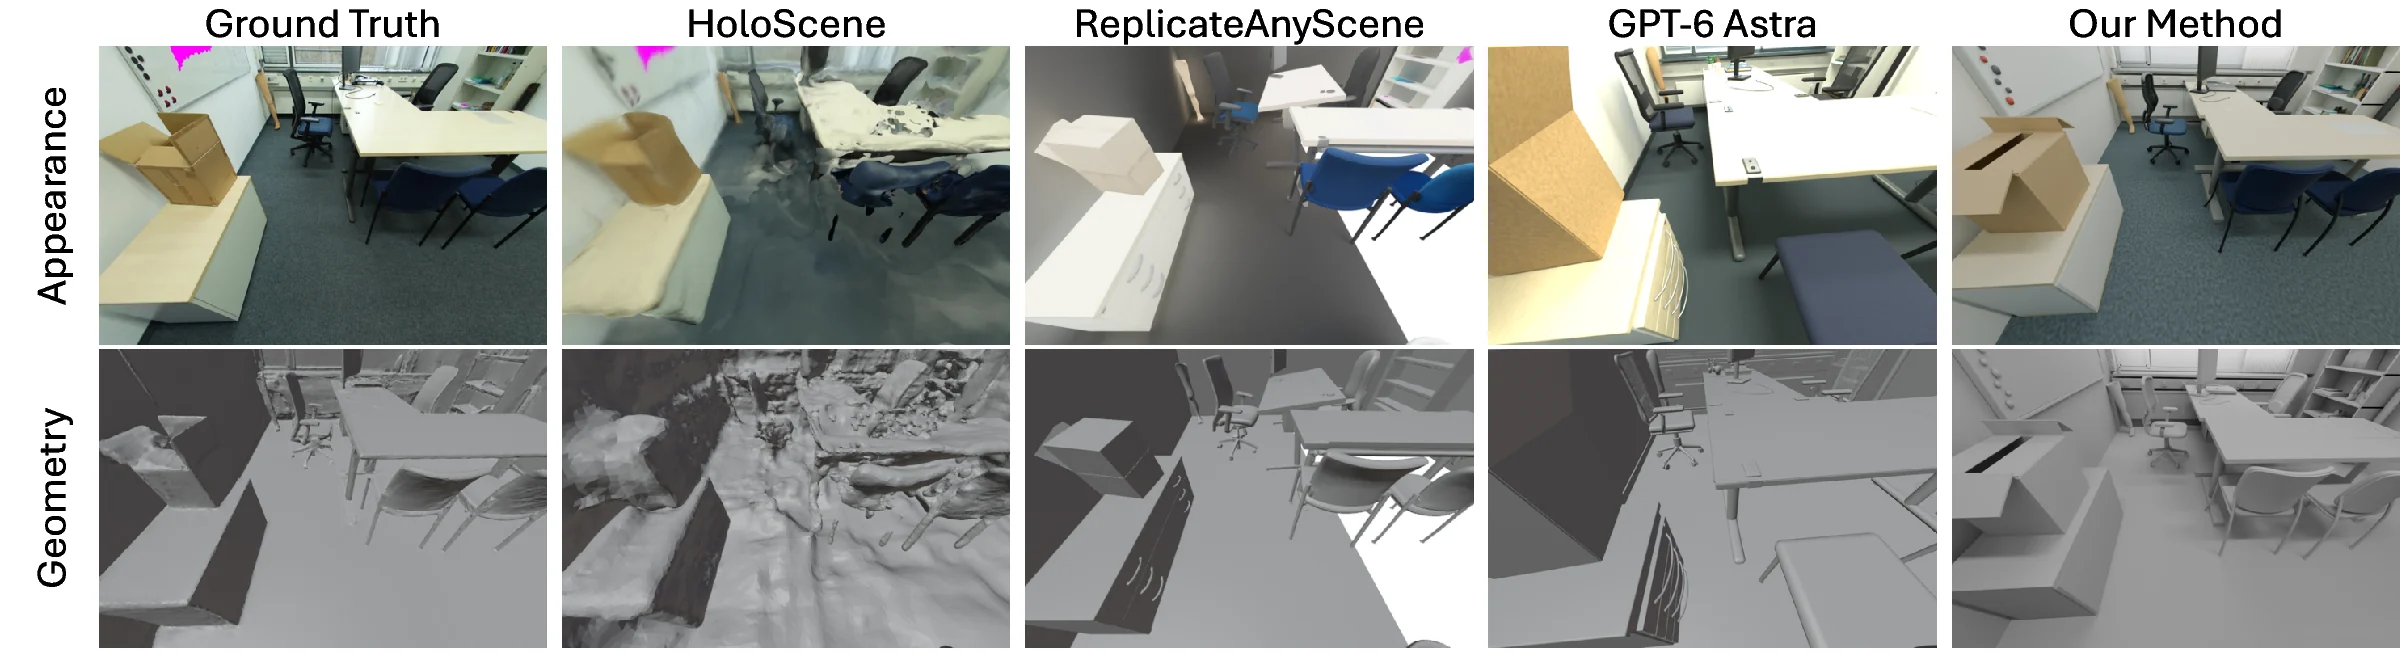
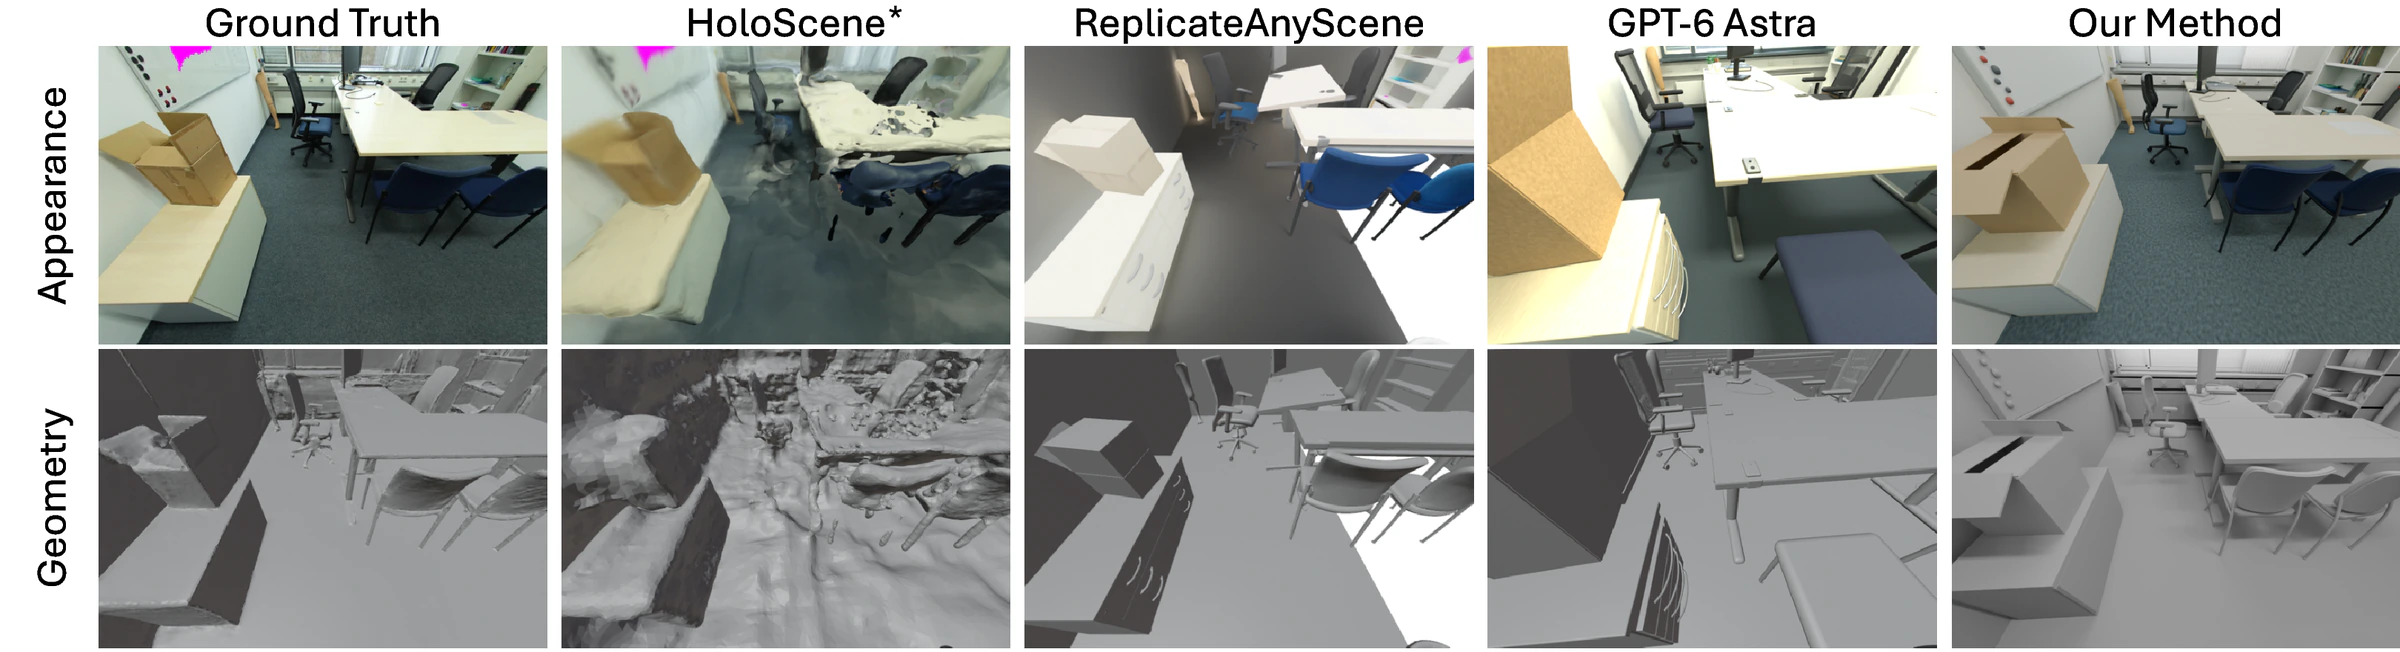
u md

diff --git a/CoDimRecon/static/js/main.js b/CoDimRecon/static/js/main.js
@@ -49,14 +49,14 @@
   /* ---------- Qualitative comparison tabs ---------- */
   var QUAL = {
     "67d702f2e8": {
-      src: "static/images/recon_67d702f2e8.webp", w: 3201, h: 939, name: "ScanNet++ scene 67d702f2e8",
-      caption: "<strong>Qualitative comparison on ScanNet++ scene 67d702f2e8</strong> — rendered appearance (top) and geometry (bottom). Our method reconstructs complete, compact object geometry at faithful scale, from the rear door and wall shelf to the bookcase contents and swivel chair. HoloScene's surfaces are fragmented, ReplicateAnyScene omits the doors and poster, and GPT-6 Astra enlarges the rear door. Our rendering is clean, without the blur and artifacts around the chair and bookcase in HoloScene's rendering."
+      src: "static/images/recon_67d702f2e8.webp", w: 3201, h: 939, name: "ScanNet++ scene 67d702f2e8", holoSceneLabel: "HoloScene",
+      caption: "<strong>Qualitative comparison on ScanNet++ scene 67d702f2e8</strong> — rendered appearance (top) and geometry (bottom). To reduce the influence of upstream pose and segmentation errors, HoloScene (official release) and ReplicateAnyScene (our reimplementation) use ScanNet++ SfM camera poses and manually annotated instance masks from the HoloScene release. These configurations differ from the paper's quantitative evaluation, where HoloScene<sup>*</sup> uses our estimated inputs with normal supervision disabled. GPT-6 Astra reconstructs directly from RGB images; CoDimRecon uses camera poses, depth, and instance masks estimated from multi-view RGB images."
     },
-    "7831862f02": { src: "static/images/recon_7831862f02.webp", w: 2400, h: 652, name: "ScanNet++ scene 7831862f02" },
-    "acd69a1746": { src: "static/images/recon_acd69a1746.webp", w: 2400, h: 652, name: "ScanNet++ scene acd69a1746" },
-    "room_0": { src: "static/images/recon_room_0.webp", w: 2400, h: 978, name: "Replica room_0" },
-    "room_1": { src: "static/images/recon_room_1.webp", w: 2400, h: 978, name: "Replica room_1" },
-    "room_2": { src: "static/images/recon_room_2.webp", w: 2400, h: 978, name: "Replica room_2" }
+    "7831862f02": { src: "static/images/recon_7831862f02.webp", w: 2400, h: 652, name: "ScanNet++ scene 7831862f02", holoSceneLabel: "HoloScene*" },
+    "acd69a1746": { src: "static/images/recon_acd69a1746.webp", w: 2400, h: 652, name: "ScanNet++ scene acd69a1746", holoSceneLabel: "HoloScene*" },
+    "room_0": { src: "static/images/recon_room_0.webp", w: 2400, h: 978, name: "Replica room_0", holoSceneLabel: "HoloScene*" },
+    "room_1": { src: "static/images/recon_room_1.webp", w: 2400, h: 978, name: "Replica room_1", holoSceneLabel: "HoloScene*" },
+    "room_2": { src: "static/images/recon_room_2.webp", w: 2400, h: 978, name: "Replica room_2", holoSceneLabel: "HoloScene*" }
   };
   var qualImg = $("#qual-img");
   var qualCaption = $("#qual-caption");
@@ -66,7 +66,7 @@
     if (!q) return;
     qualTabs.forEach(function (t) { t.setAttribute("aria-selected", String(t.dataset.qual === key)); });
     qualCaption.innerHTML = q.caption ||
-      "<strong>Qualitative comparison on " + q.name + "</strong> — rendered appearance (top) and geometry (bottom) for each method from the same input view: ground truth, HoloScene, ReplicateAnyScene, GPT-6 Astra, and ours.";
+      "<strong>Qualitative comparison on " + q.name + "</strong> — rendered appearance (top) and geometry (bottom) from the same input view. HoloScene<sup>*</sup> disables normal supervision and uses the same VGGT-Omega camera poses and depth and mask-clustering instance masks as CoDimRecon, all estimated from multi-view RGB images. ReplicateAnyScene is our reimplementation using manually annotated instance masks from the HoloScene release; its quantitative results instead use the default VLM + SAM3 segmentation. GPT-6 Astra reconstructs directly from RGB images.";
     if (qualImg.getAttribute("src") === q.src) return;
     qualImg.classList.add("is-loading");
     var next = new Image();
@@ -74,7 +74,7 @@
       qualImg.src = q.src;
       qualImg.width = q.w;
       qualImg.height = q.h;
-      qualImg.alt = "Qualitative comparison on " + q.name + ": rendered appearance (top row) and geometry (bottom row) for ground truth, HoloScene, ReplicateAnyScene, GPT-6 Astra, and CoDimRecon.";
+      qualImg.alt = "Qualitative comparison on " + q.name + ": rendered appearance (top row) and geometry (bottom row) for ground truth, " + q.holoSceneLabel + ", ReplicateAnyScene, GPT-6 Astra, and CoDimRecon.";
       qualImg.classList.remove("is-loading");
     };
     next.src = q.src;
